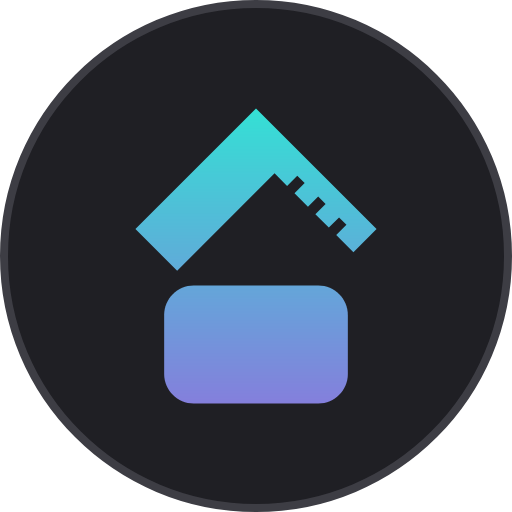
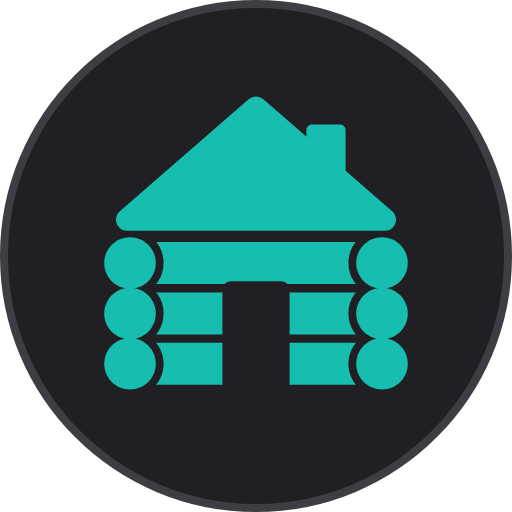
New mark: a log cabin
Three logs with round ends, a gable roof, a chimney and a door, in the
head unit's teal. Replaces the carpenter's-square cabin in the logo,
favicons and app icon.

Changed region(s): [[0.1875, 0.1875, 0.8125, 0.8125]]

diff --git a/README.md b/README.md
@@ -26,11 +26,11 @@ Not affiliated with Kia, Hyundai or Mobis.
 The colours are the head unit's own, as the Cabinwright API's `CarPage` uses them
 ([menu](https://github.com/cabinwright/menu), `api/ui`): night background `#121214`, cards
 `#161618` with a `#313136` edge, icon tiles `#1F1F24` / `#3D3D44`, text `#B6C1C8`, muted
-`#79838A`, and the highlight teal `#17BEB0`. The mark uses the stock icons' gradient,
-`#34E0D5` to `#847FDC`. The light scheme uses the day colours (`#F0F0F0`, edge `#CBCBCB`) with
+`#79838A`, and the highlight teal `#17BEB0`. The mark is solid teal (`#0A6F68` on
+light backgrounds). The light scheme uses the day colours (`#F0F0F0`, edge `#CBCBCB`) with
 text and teal darkened to pass WCAG AA.
 
-The mark is a cabin whose roof is a carpenter's square (the "wright"), over a screen. Only the
+The mark is a log cabin: three logs with round ends, a gable roof, a chimney and a door. Only the
 colours come from the head unit; no manufacturer logo, font or artwork is used.
 
 ## Editing
